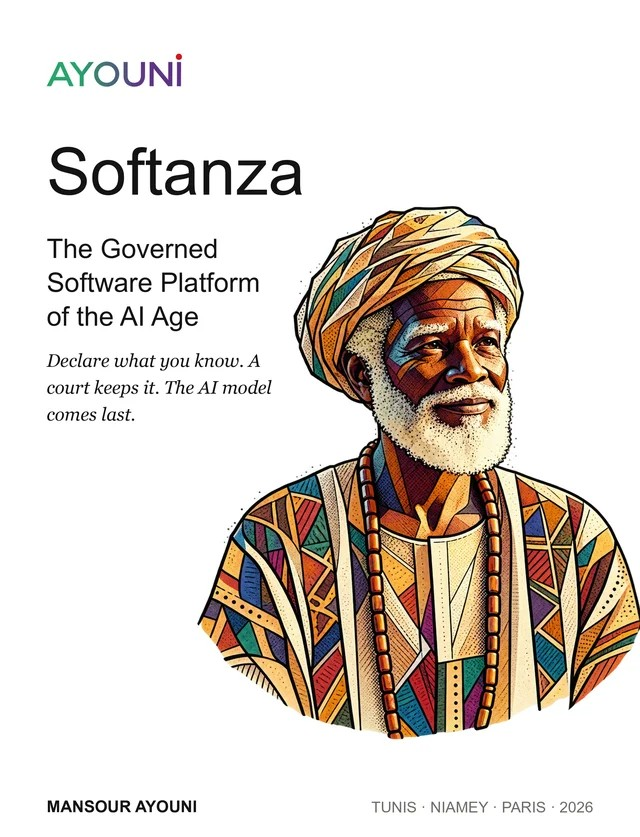
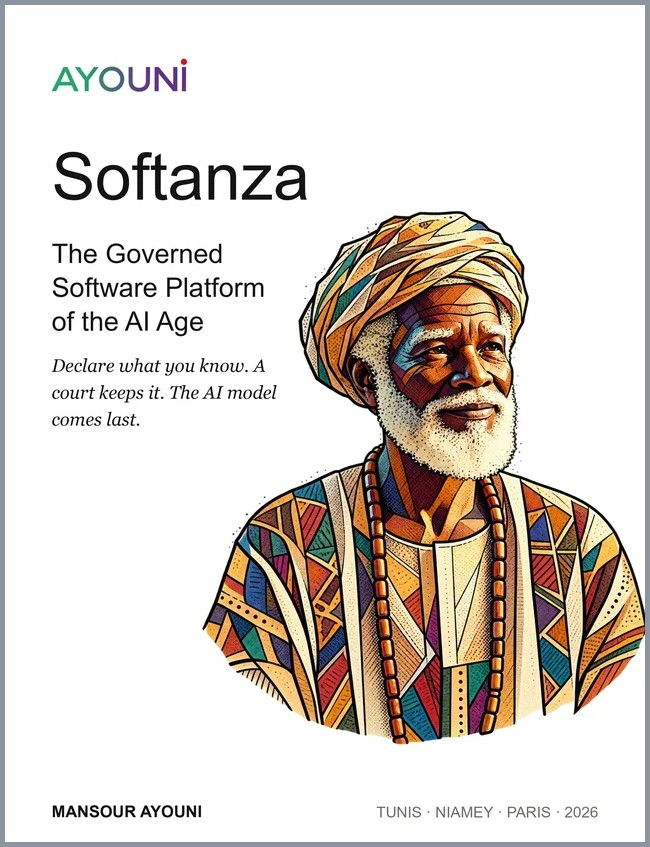
README: AI timeline, both books with framed covers, sibling projects
AI came in two steps (pasted results in late 2025, Claude Code Desktop in
2026). The book covers carry a frame so they stand out from the page, and the
Refinement-Oriented Programming book is added beside the Softanza one. Lists
the sibling projects (RingServ, RingScript, MicroRing, Harobanda) and what
they become under Haro.

diff --git a/README.md b/README.md
@@ -68,26 +68,58 @@ Softanza was written by hand. The GitHub history shows it: more than 300,000
 lines of code and tens of thousands of test samples, written over about five
 years, before AI coding tools existed.
 
-Since late 2025 it is an AI-first product. Claude Code writes all of the Zig
-code and all of the Ring++ code. Mansour Ayouni's work changed with it: he no
-longer writes the code, he governs the refinements the AI makes to it. That way
-of working is described in the narration
+AI came in two steps. In late 2025 the author started using AI by pasting its
+results into the code himself. In 2026 he moved to Claude Code Desktop, and
+Softanza became an AI-first product: Claude Code now writes all of the Zig code
+and all of the Ring++ code. Mansour Ayouni's work changed with it: he no longer
+writes the code, he governs the refinements the AI makes to it. That way of
+working is described in the narration
 [Refinement-Centered Programming](https://mayouni.github.io/stzsite/en/narrations/stzpolycode-refinement-centered-programming.html),
-and on the [refinement page](https://mayouni.github.io/stzsite/en/refinement.html).
+on the [refinement page](https://mayouni.github.io/stzsite/en/refinement.html),
+and in the second book below.
 
-## The book
+## The books
 
-<a href="https://mayouni.github.io/ayouni/books/softanza/en/">
-  <img src="docs/img/softanza-book-cover.jpg" alt="Cover of the book Softanza, the governed software platform of the AI age, by Mansour Ayouni" width="240" align="left" hspace="16">
-</a>
+<table>
+  <tr>
+    <td align="center" valign="top" width="50%">
+      <a href="https://mayouni.github.io/ayouni/books/softanza/en/">
+        <img src="docs/img/softanza-book-cover.jpg" alt="Cover of the book Softanza: The Governed Software Platform of the AI Age" width="260">
+      </a>
+      <br><br>
+      <b>Softanza</b><br>
+      <i>The Governed Software Platform of the AI Age</i><br>
+      The long form of the ideas on this page: why the world is declared, how a
+      court keeps it, and why the AI model comes last.<br><br>
+      <a href="https://mayouni.github.io/ayouni/books/softanza/en/">Read it online</a>
+    </td>
+    <td align="center" valign="top" width="50%">
+      <a href="https://mayouni.github.io/ayouni/books/refinement/en/">
+        <img src="docs/img/refinement-book-cover.jpg" alt="Cover of the book Refinement-Oriented Programming: A discipline for software in the agentic era" width="260">
+      </a>
+      <br><br>
+      <b>Refinement-Oriented Programming</b><br>
+      <i>A discipline for software in the agentic era</i><br>
+      How software is built when an AI writes the code and a person governs its
+      refinements, the way Softanza itself is built now.<br><br>
+      <a href="https://mayouni.github.io/ayouni/books/refinement/en/">Read it online</a>
+    </td>
+  </tr>
+</table>
 
-**Softanza: The Governed Software Platform of the AI Age**, by Mansour Ayouni
-(2026). The long form of the ideas on this page: why the world is declared,
-how a court keeps it, and why the AI model comes last.
+Both are by Mansour Ayouni (2026).
 
-**[Read the book online](https://mayouni.github.io/ayouni/books/softanza/en/)**
+## Sibling projects
 
-<br clear="left">
+Softanza has sibling projects that complement it. Three of them are renamed when
+Haro is adopted.
+
+| Project | What it is | Becomes |
+|---|---|---|
+| [RingServ](https://mayouni.github.io/ringserv/) | A single-file server for applications and web services: a web server, a SQL database and a JavaScript engine in one binary. | HaroServ |
+| [RingScript](https://mayouni.github.io/ringscript/) | Frontend scripting that runs the compiler and virtual machine in the browser, as WebAssembly, so page logic is not written in JavaScript. | HaroScript |
+| MicroRing | A private repository for now. | MicroHaro |
+| [Harobanda](https://mayouni.github.io/harobanda/index.html) | A sovereign operating system, built on proven Linux, for governing AI agents and for critical work that must keep running under its owner's control. Open source, MIT. | |
 
 ## The 28 areas
 
